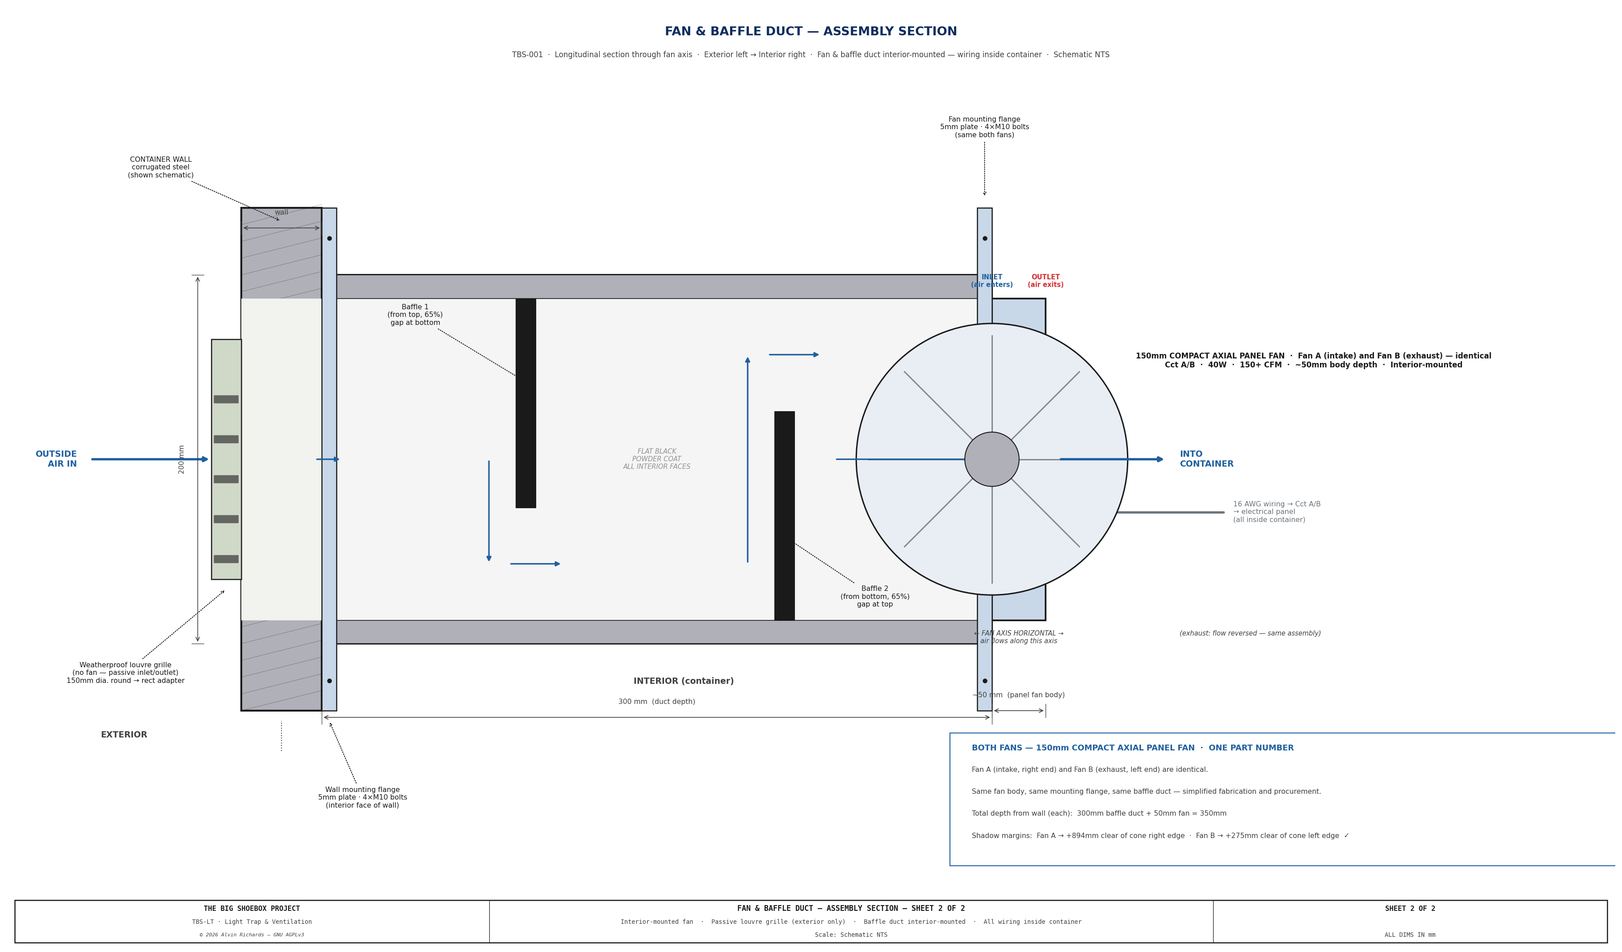
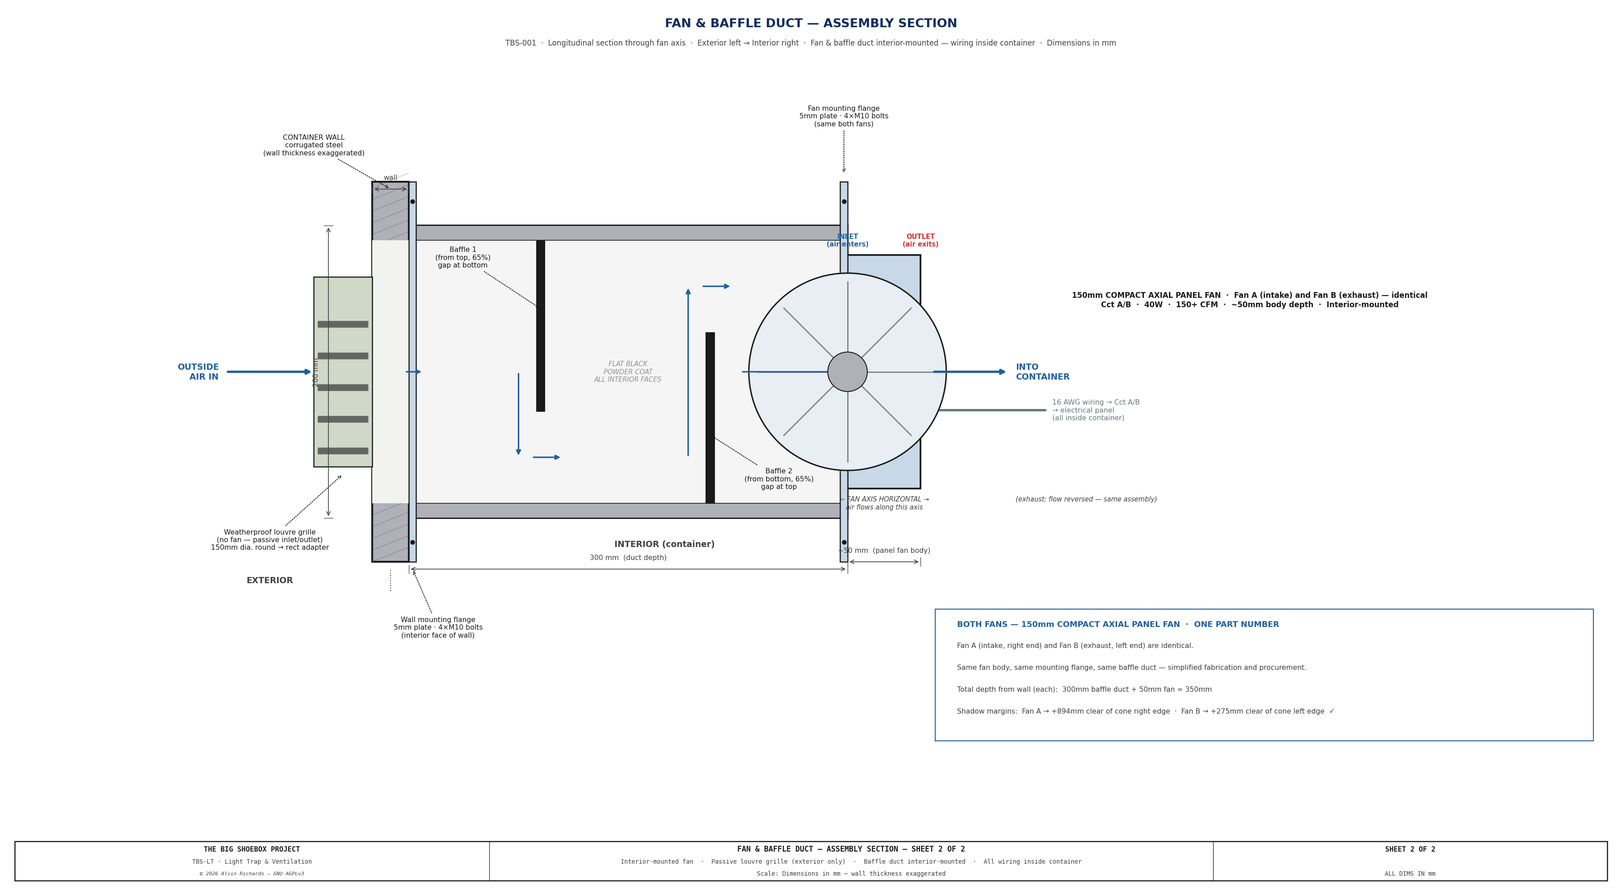
Sheet 2: convert from arbitrary drawing units to mm-based coordinates
Duct depth (300mm), duct height (200mm), fan body (50mm), fan diameter
(150mm), flanges, baffles, and grille all drawn at real mm scale.
Container wall thickness exaggerated (25mm) for visibility and annotated.
Scale note updated from 'Schematic NTS' to 'Dimensions in mm'.

diff --git a/generate_lighttrap_diagram.py b/generate_lighttrap_diagram.py
@@ -293,258 +293,225 @@ def draw_sheet1():
 
 def draw_sheet2():
     import math
-    FW, FH = 24.0, 14.0
-    fig, ax = plt.subplots(figsize=(FW, FH), dpi=150)
+
+    # ── Physical dimensions (mm) ─────────────────────────────────────────────
+    WALL_T  = 25                     # container wall (exaggerated — real ~2-3mm)
+    DD      = DUCT_DEPTH             # 300
+    DH      = DUCT_HEIGHT            # 200
+    SK      = 10                     # duct housing wall thickness
+    BF_T    = 6                      # baffle plate (exaggerated — real ~2mm)
+    PF_BD   = 50                     # panel fan body depth
+    PF_R    = FAN_DIAM / 2           # 75
+    FL_OH   = 30                     # flange overhang above/below duct
+    FL_T    = 5                      # flange plate thickness
+    GL_W    = 40                     # louvre grille depth
+    GL_H    = int(DH * 0.65)         # 130
+
+    # ── Reference coordinates (mm) ───────────────────────────────────────────
+    # X = 0 at exterior face of container wall.  Z increases upward.
+    WALL_X  = 0
+    DX      = WALL_X + WALL_T        # 25  — interior wall face / duct left
+    FX      = DX + DD                 # 325 — duct right face / fan inlet
+    DZ      = 150                     # duct bottom
+    FCZ     = DZ + DH / 2            # 250 — fan / duct center
+    int_h   = DH - 2 * SK           # 180 clear interior
+    int_d   = DD - SK                # 290 clear interior depth
+    wz0     = DZ - FL_OH             # 120 — wall / flange bottom
+    wz1     = DZ + DH + FL_OH        # 380 — wall / flange top
+
+    # ── Canvas ────────────────────────────────────────────────────────────────
+    fig, ax = plt.subplots(figsize=(24, 14), dpi=150)
     fig.patch.set_facecolor("white")
     ax.set_facecolor("white")
-    ax.set_xlim(0, FW)
-    ax.set_ylim(0, FH)
+    ax.set_xlim(-250, 850)
+    ax.set_ylim(-100, 500)
     ax.set_aspect("equal")
     ax.axis("off")
     fig.subplots_adjust(left=0, right=1, top=1, bottom=0)
 
-    ax.text(FW / 2, FH - 0.38,
+    # ── Title ─────────────────────────────────────────────────────────────────
+    cx = 300
+    ax.text(cx, 488,
             "FAN & BAFFLE DUCT — ASSEMBLY SECTION",
             ha="center", va="center", fontsize=13, fontweight="bold",
             color=TITLE_COL)
-    ax.text(FW / 2, FH - 0.72,
+    ax.text(cx, 475,
             "TBS-001  ·  Longitudinal section through fan axis  ·  Exterior left → Interior right  ·  "
-            "Fan & baffle duct interior-mounted — wiring inside container  ·  Schematic NTS",
+            "Fan & baffle duct interior-mounted — wiring inside container  ·  Dimensions in mm",
             ha="center", va="center", fontsize=8.0, color=C_DIM)
 
-    # ── Layout constants ──────────────────────────────────────────────────────
-    # Exterior zone:  x = 0  ..  WX
-    # Container wall: x = WX  ..  WX+WT
-    # Baffle duct:    x = WX+WT  ..  WX+WT+DD     (interior-mounted)
-    # Fan body:       x = WX+WT+DD  ..  WX+WT+DD+FAN_LEN  (interior)
-    # Interior zone:  x = WX+WT+DD+FAN_LEN  ..  FW
-    WX      = 3.5    # exterior face of container wall
-    WT      = 1.2    # wall thickness (schematic)
-    DD      = 10.0   # duct depth (represents 300 mm)
-    DH      = 5.5    # duct outer height (represents 200 mm)
-    SK      = 0.35   # duct housing wall thickness (10 mm steel)
-    AY      = 4.5    # bottom of duct assembly
-    BF_T    = 0.30   # baffle plate thickness (minimum visible)
-    FAN_LEN = 5.0    # fan body depth in drawing units
-    FAN_D   = 4.5    # fan body height (represents ~150 mm dia)
-    FAN_R   = FAN_D / 2
-
-    DUCT_X  = WX + WT           # interior face of wall = duct left face
-    DUCT_Y  = AY
-    FAN_X   = DUCT_X + DD       # fan mounts on right (interior) face of duct
-    FAN_CX  = FAN_X + FAN_LEN / 2
-    FAN_CY  = DUCT_Y + DH / 2
-    int_h   = DH - 2 * SK       # clear interior height
-    int_d   = DD - SK           # clear interior depth (right side has fan flange)
-    wall_y0, wall_y1 = AY - 1.0, AY + DH + 1.0
-
     # ── Container wall ────────────────────────────────────────────────────────
-    draw_rect(ax, WX, wall_y0, WT, wall_y1 - wall_y0, fc=C_STEEL, lw=2.0, zorder=4)
-    for yi in range(int(wall_y0 * 4), int(wall_y1 * 4)):
-        yy = yi / 4.0
-        ax.plot([WX, WX + WT], [yy, yy + 0.3],
+    draw_rect(ax, WALL_X, wz0, WALL_T, wz1 - wz0, fc=C_STEEL, lw=2.0, zorder=4)
+    for zi in range(wz0, wz1, 8):
+        ax.plot([WALL_X, WALL_X + WALL_T], [zi, zi + 10],
                 color=C_OUT, lw=0.4, alpha=0.4, zorder=5)
-    # Clear opening in wall for duct penetration
-    draw_rect(ax, WX, AY + SK, WT, int_h, fc="#F2F2EE", color="none", lw=0, zorder=5)
-    ann(ax, "CONTAINER WALL\ncorrugated steel\n(shown schematic)",
-        (WX + WT / 2, wall_y1 - 0.2), (WX - 1.2, wall_y1 + 0.6))
+    draw_rect(ax, WALL_X, DZ + SK, WALL_T, int_h, fc="#F2F2EE", color="none", lw=0, zorder=5)
+    ann(ax, "CONTAINER WALL\ncorrugated steel\n(wall thickness exaggerated)",
+        (WALL_X + WALL_T / 2, wz1 - 5), (WALL_X - 40, wz1 + 25))
 
-    # ── Weatherproof louvre grille (exterior face of wall) ────────────────────
-    GL_W = 0.45    # grille frame depth (protruding exterior)
-    GL_H = DH * 0.65
-    GL_Y = DUCT_Y + DH / 2 - GL_H / 2
-    # Grille frame
-    draw_rect(ax, WX - GL_W, GL_Y, GL_W, GL_H, fc="#D0D8C8", lw=1.2, zorder=6)
-    # Louvre slats (5 horizontal angled slats)
-    slat_h = 0.10
+    # ── Weatherproof louvre grille ─────────────────────────────────────────────
+    GL_Z = DZ + DH / 2 - GL_H / 2
+    draw_rect(ax, WALL_X - GL_W, GL_Z, GL_W, GL_H, fc="#D0D8C8", lw=1.2, zorder=6)
+    slat_h  = 4
     slat_gap = GL_H / 6
     for i in range(5):
-        sy = GL_Y + slat_gap * (i + 0.5)
-        # Angled slat: left edge lower than right (rain-shedding angle)
+        slat_z = GL_Z + slat_gap * (i + 0.5)
         ax.add_patch(mpatches.FancyBboxPatch(
-            (WX - GL_W + 0.05, sy - slat_h / 2), GL_W - 0.10, slat_h,
-            boxstyle="round,pad=0.01", fc=C_DIM, ec="none", zorder=7, alpha=0.75))
+            (WALL_X - GL_W + 3, slat_z - slat_h / 2), GL_W - 6, slat_h,
+            boxstyle="round,pad=0.3", fc=C_DIM, ec="none", zorder=7, alpha=0.75))
     ann(ax, "Weatherproof louvre grille\n(no fan — passive inlet/outlet)\n150mm dia. round → rect adapter",
-        (WX - GL_W / 2, GL_Y - 0.15), (WX - GL_W / 2 - 1.5, GL_Y - 1.4))
+        (WALL_X - GL_W / 2, GL_Z - 5), (WALL_X - GL_W / 2 - 50, GL_Z - 50))
 
-    # ── Baffle duct housing (interior-mounted, left face open to wall) ────────
-    draw_rect(ax, DUCT_X, DUCT_Y, DD, DH, fc="#F5F5F5", lw=2.0, zorder=3)
-    # Housing walls: top, bottom only — left (exterior) is open to wall, right (fan) has mounting flange
+    # ── Baffle duct housing ───────────────────────────────────────────────────
+    draw_rect(ax, DX, DZ, DD, DH, fc="#F5F5F5", lw=2.0, zorder=3)
     for rx, ry, rw, rh in [
-        (DUCT_X, DUCT_Y,        DD, SK),         # bottom wall
-        (DUCT_X, DUCT_Y+DH-SK,  DD, SK),         # top wall
+        (DX, DZ,        DD, SK),
+        (DX, DZ+DH-SK,  DD, SK),
     ]:
         draw_rect(ax, rx, ry, rw, rh, fc=C_STEEL, lw=0.8, zorder=4)
-    # Flat black interior
-    ax.add_patch(mpatches.Rectangle((DUCT_X, DUCT_Y + SK), DD, int_h,
+    ax.add_patch(mpatches.Rectangle((DX, DZ + SK), DD, int_h,
                  fc="#2A2A2A", ec="none", zorder=2, alpha=0.12))
 
-    # Wall mounting flange — secures duct to interior face of container wall
-    FL_W = 1.0    # flange overhang (top and bottom)
-    FL_T = 0.22   # flange plate thickness
-    draw_rect(ax, DUCT_X, DUCT_Y - FL_W, FL_T, DH + 2 * FL_W,
-              fc=C_ALUM, lw=1.2, zorder=6)
-    for by in [DUCT_Y - FL_W * 0.55, DUCT_Y + DH + FL_W * 0.55]:
-        ax.plot(DUCT_X + FL_T / 2, by, "o", color=C_OUT, ms=4, zorder=7)
+    # ── Wall mounting flange ──────────────────────────────────────────────────
+    draw_rect(ax, DX, wz0, FL_T, wz1 - wz0, fc=C_ALUM, lw=1.2, zorder=6)
+    for bz in [wz0 + FL_OH * 0.45, wz1 - FL_OH * 0.45]:
+        ax.plot(DX + FL_T / 2, bz, "o", color=C_OUT, ms=4, zorder=7)
     ann(ax, "Wall mounting flange\n5mm plate · 4×M10 bolts\n(interior face of wall)",
-        (DUCT_X + FL_T / 2, DUCT_Y - FL_W - 0.15),
-        (DUCT_X + FL_T / 2 + 0.5, DUCT_Y - FL_W - 1.3))
+        (DX + FL_T / 2, wz0 - 5), (DX + 20, wz0 - 45))
 
-    # ── Baffles inside duct ───────────────────────────────────────────────────
-    # Baffle 1: from TOP, at 30% depth — gap at BOTTOM
-    # Baffle 2: from BOTTOM, at 70% depth — gap at TOP
-    B1_X = DUCT_X + int_d * 0.30
+    # ── Baffles ───────────────────────────────────────────────────────────────
+    B1_X = DX + int_d * 0.30
     B1_H = int_h * 0.65
-    B1_Y = DUCT_Y + SK + int_h - B1_H      # top-anchored
-    draw_rect(ax, B1_X, B1_Y, BF_T, B1_H, fc=C_OUT, lw=0.5, zorder=5)
+    B1_Z = DZ + SK + int_h - B1_H
+    draw_rect(ax, B1_X, B1_Z, BF_T, B1_H, fc=C_OUT, lw=0.5, zorder=5)
 
-    B2_X = DUCT_X + int_d * 0.70
+    B2_X = DX + int_d * 0.70
     B2_H = int_h * 0.65
-    B2_Y = DUCT_Y + SK                     # bottom-anchored
-    draw_rect(ax, B2_X, B2_Y, BF_T, B2_H, fc=C_OUT, lw=0.5, zorder=5)
+    B2_Z = DZ + SK
+    draw_rect(ax, B2_X, B2_Z, BF_T, B2_H, fc=C_OUT, lw=0.5, zorder=5)
 
     ann(ax, "Baffle 1\n(from top, 65%)\ngap at bottom",
-        (B1_X + BF_T / 2, B1_Y + B1_H * 0.6),
-        (B1_X - 1.5, B1_Y + B1_H * 0.6 + 1.0))
+        (B1_X + BF_T / 2, B1_Z + B1_H * 0.6),
+        (B1_X - 50, B1_Z + B1_H * 0.6 + 35))
     ann(ax, "Baffle 2\n(from bottom, 65%)\ngap at top",
-        (B2_X + BF_T / 2, B2_Y + B2_H * 0.4),
-        (B2_X + 1.5, B2_Y + B2_H * 0.4 - 0.9))
-    ax.text(DUCT_X + DD / 2, DUCT_Y + SK + int_h * 0.5,
+        (B2_X + BF_T / 2, B2_Z + B2_H * 0.4),
+        (B2_X + 50, B2_Z + B2_H * 0.4 - 30))
+    ax.text(DX + DD / 2, DZ + SK + int_h * 0.5,
             "FLAT BLACK\nPOWDER COAT\nALL INTERIOR FACES",
             ha="center", va="center", fontsize=7.0, color="#808080",
             style="italic", alpha=0.85, zorder=9)
 
-    # ── Fan body — compact axial panel fan (both Fan A and Fan B identical) ─────
-    # Panel fan: ~50mm body depth, 150mm dia. One part number for both fans.
-    FM_T  = 0.22     # mounting flange plate thickness
-    PF_BD = 0.80     # panel fan body depth in drawing units (~50mm schematic)
-    PF_R  = FAN_R    # impeller radius = FAN_R (150mm dia)
-
-    # Mounting flange at right face of duct
-    draw_rect(ax, FAN_X - FM_T, DUCT_Y - FL_W, FM_T, DH + 2 * FL_W,
-              fc=C_ALUM, lw=1.2, zorder=6)
-    for by in [DUCT_Y - FL_W * 0.55, DUCT_Y + DH + FL_W * 0.55]:
-        ax.plot(FAN_X - FM_T / 2, by, "o", color=C_OUT, ms=4, zorder=7)
+    # ── Fan mounting flange (duct right face) ─────────────────────────────────
+    draw_rect(ax, FX - FL_T, wz0, FL_T, wz1 - wz0, fc=C_ALUM, lw=1.2, zorder=6)
+    for bz in [wz0 + FL_OH * 0.45, wz1 - FL_OH * 0.45]:
+        ax.plot(FX - FL_T / 2, bz, "o", color=C_OUT, ms=4, zorder=7)
     ann(ax, "Fan mounting flange\n5mm plate · 4×M10 bolts\n(same both fans)",
-        (FAN_X - FM_T / 2, DUCT_Y + DH + FL_W + 0.15),
-        (FAN_X - FM_T / 2, DUCT_Y + DH + FL_W + 1.2))
+        (FX - FL_T / 2, wz1 + 5), (FX - FL_T / 2, wz1 + 45))
 
-    # Panel fan body — thin rectangle (shallow depth, ~50mm) with impeller on INLET face.
-    # Impeller circle drawn on LEFT (inlet) face so orientation is unambiguous:
-    # viewing the fan from the inlet side = you see the blades face-on.
-    # Air enters LEFT face, exits RIGHT face (intake mode; reversed for exhaust).
-    draw_rect(ax, FAN_X, FAN_CY - PF_R - 0.15, PF_BD, (PF_R + 0.15) * 2,
+    # ── Panel fan body ────────────────────────────────────────────────────────
+    draw_rect(ax, FX, FCZ - PF_R - 5, PF_BD, (PF_R + 5) * 2,
               fc=C_ALUM, lw=1.8, zorder=5)
-    # Impeller disc on INLET (left) face — represents view along fan axis from inlet
-    draw_circle(ax, FAN_X, FAN_CY, PF_R * 0.90, lw=1.5, fill=True, fc="#E8EEF4", zorder=6)
-    # Blade lines (fan blades as seen from inlet)
+    draw_circle(ax, FX, FCZ, PF_R * 0.90, lw=1.5, fill=True, fc="#E8EEF4", zorder=6)
     for angle in range(0, 360, 45):
-        bx = FAN_X + PF_R * 0.82 * math.cos(math.radians(angle))
-        by = FAN_CY + PF_R * 0.82 * math.sin(math.radians(angle))
-        ax.plot([FAN_X, bx], [FAN_CY, by],
-                color=C_DIM, lw=1.4, alpha=0.60, zorder=7)
-    # Motor hub at center
-    draw_circle(ax, FAN_X, FAN_CY, PF_R * 0.18, lw=1.0, fill=True, fc=C_STEEL, zorder=8)
-    # INLET / OUTLET face labels
-    ax.text(FAN_X, FAN_CY + PF_R + 0.30, "INLET\n(air enters)",
+        bx = FX + PF_R * 0.82 * math.cos(math.radians(angle))
+        bz = FCZ + PF_R * 0.82 * math.sin(math.radians(angle))
+        ax.plot([FX, bx], [FCZ, bz], color=C_DIM, lw=1.4, alpha=0.60, zorder=7)
+    draw_circle(ax, FX, FCZ, PF_R * 0.18, lw=1.0, fill=True, fc=C_STEEL, zorder=8)
+    ax.text(FX, FCZ + PF_R + 10, "INLET\n(air enters)",
             ha="center", va="bottom", fontsize=7.0, color=C_CL, fontweight="bold", zorder=10)
-    ax.text(FAN_X + PF_BD, FAN_CY + PF_R + 0.30, "OUTLET\n(air exits)",
+    ax.text(FX + PF_BD, FCZ + PF_R + 10, "OUTLET\n(air exits)",
             ha="center", va="bottom", fontsize=7.0, color="#D32F2F", fontweight="bold", zorder=10)
-    # Axis direction note below fan
-    ax.text(FAN_X + PF_BD / 2, FAN_CY - PF_R - 0.30,
+    ax.text(FX + PF_BD / 2, FCZ - PF_R - 10,
             "← FAN AXIS HORIZONTAL →\nair flows along this axis",
             ha="center", va="top", fontsize=7.0, color=C_DIM, style="italic", zorder=10)
 
-    # Wiring run from fan into container interior
-    WR_X = FAN_X + PF_BD + 0.15
-    ax.plot([WR_X, WR_X + 2.5], [FAN_CY - PF_R * 0.35, FAN_CY - PF_R * 0.35],
+    # ── Wiring run ────────────────────────────────────────────────────────────
+    wr_x = FX + PF_BD + 5
+    wr_z = FCZ - PF_R * 0.35
+    ax.plot([wr_x, wr_x + 80], [wr_z, wr_z],
             color=C_PIPE, lw=2.5, solid_capstyle="round", zorder=5)
-    ax.text(WR_X + 2.65, FAN_CY - PF_R * 0.35,
+    ax.text(wr_x + 85, wr_z,
             "16 AWG wiring → Cct A/B\n→ electrical panel\n(all inside container)",
             ha="left", va="center", fontsize=7.5, color=C_PIPE, zorder=10)
 
-    ax.text(FAN_X + PF_BD * 6, FAN_CY + PF_R - 0.65, #FAN_CY - PF_R - 0.55,
-            "150mm COMPACT AXIAL PANEL FAN  ·  Fan A (intake) and Fan B (exhaust) — identical\n"
+    ax.text(600, FCZ + PF_R - 20,
+            f"{FAN_DIAM}mm COMPACT AXIAL PANEL FAN  ·  Fan A (intake) and Fan B (exhaust) — identical\n"
             "Cct A/B  ·  40W  ·  150+ CFM  ·  ~50mm body depth  ·  Interior-mounted",
             ha="center", va="top", fontsize=8.0, fontweight="bold", color=C_OUT, zorder=10)
 
-    # ── Airflow arrows (intake mode shown — exhaust is identical, reversed) ───
-    mid_y = FAN_CY
-    gap1_h = int_h * 0.35
-    gap1_y = DUCT_Y + SK
-    gap2_h = int_h * 0.35
-    gap2_y = DUCT_Y + SK + int_h - gap2_h
-    y_gap1 = gap1_y + gap1_h / 2
-    y_gap2 = gap2_y + gap2_h / 2
+    # ── Airflow arrows ────────────────────────────────────────────────────────
+    mid_z = FCZ
+    gap1_z = DZ + SK
+    gap2_z = DZ + SK + int_h - int_h * 0.35
+    z_gap1 = gap1_z + int_h * 0.35 / 2
+    z_gap2 = gap2_z + int_h * 0.35 / 2
     pc, plw = C_CL, 1.6
 
-    # Exterior: outside → grille
-    ax.annotate("", xy=(WX - GL_W, mid_y), xytext=(WX - GL_W - 1.8, mid_y),
+    ax.annotate("", xy=(WALL_X - GL_W, mid_z), xytext=(WALL_X - GL_W - 60, mid_z),
                 arrowprops=dict(arrowstyle="-|>", color=pc, lw=2.5), zorder=8)
-    ax.text(WX - GL_W - 2.0, mid_y, "OUTSIDE\nAIR IN",
+    ax.text(WALL_X - GL_W - 65, mid_z, "OUTSIDE\nAIR IN",
             ha="right", va="center", fontsize=9.0, color=pc, fontweight="bold", zorder=10)
-    # Through wall opening into duct
-    ax.annotate("", xy=(DUCT_X + 0.3, mid_y), xytext=(WX + WT - 0.1, mid_y),
+    ax.annotate("", xy=(DX + 10, mid_z), xytext=(WALL_X + WALL_T - 3, mid_z),
                 arrowprops=dict(arrowstyle="-|>", color=pc, lw=plw), zorder=7)
     # S-path through baffles
-    ax.annotate("", xy=(B1_X - 0.4, y_gap1), xytext=(B1_X - 0.4, mid_y),
+    ax.annotate("", xy=(B1_X - 12, z_gap1), xytext=(B1_X - 12, mid_z),
                 arrowprops=dict(arrowstyle="-|>", color=pc, lw=plw), zorder=7)
-    ax.annotate("", xy=(B1_X + BF_T + 0.4, y_gap1), xytext=(B1_X - 0.1, y_gap1),
+    ax.annotate("", xy=(B1_X + BF_T + 12, z_gap1), xytext=(B1_X - 3, z_gap1),
                 arrowprops=dict(arrowstyle="-|>", color=pc, lw=plw), zorder=7)
-    ax.annotate("", xy=(B2_X - 0.4, y_gap2), xytext=(B2_X - 0.4, y_gap1),
+    ax.annotate("", xy=(B2_X - 12, z_gap2), xytext=(B2_X - 12, z_gap1),
                 arrowprops=dict(arrowstyle="-|>", color=pc, lw=plw), zorder=7)
-    ax.annotate("", xy=(B2_X + BF_T + 0.4, y_gap2), xytext=(B2_X - 0.1, y_gap2),
+    ax.annotate("", xy=(B2_X + BF_T + 12, z_gap2), xytext=(B2_X - 3, z_gap2),
                 arrowprops=dict(arrowstyle="-|>", color=pc, lw=plw), zorder=7)
-    # Exit baffle → fan inlet
-    ax.annotate("", xy=(FAN_X - 0.1, mid_y), xytext=(B2_X + BF_T + 0.6, mid_y),
+    ax.annotate("", xy=(FX - 3, mid_z), xytext=(B2_X + BF_T + 18, mid_z),
                 arrowprops=dict(arrowstyle="-|>", color=pc, lw=plw), zorder=7)
-    # Fan → interior container
-    ax.annotate("", xy=(FAN_X + PF_BD + 1.8, mid_y),
-                xytext=(FAN_X + PF_BD + 0.2, mid_y),
+    ax.annotate("", xy=(FX + PF_BD + 60, mid_z),
+                xytext=(FX + PF_BD + 8, mid_z),
                 arrowprops=dict(arrowstyle="-|>", color=pc, lw=2.5), zorder=8)
-    ax.text(FAN_X + PF_BD + 2.0, mid_y, "INTO\nCONTAINER",
+    ax.text(FX + PF_BD + 65, mid_z, "INTO\nCONTAINER",
             ha="left", va="center", fontsize=9.0, color=pc, fontweight="bold", zorder=10)
-    ax.text(FAN_X + PF_BD + 2.0, mid_y - FAN_R - 0.3,
+    ax.text(FX + PF_BD + 65, mid_z - PF_R - 10,
             "(exhaust: flow reversed — same assembly)",
             ha="left", va="top", fontsize=7.0, color=C_DIM, style="italic", zorder=10)
 
     # ── Zone labels ───────────────────────────────────────────────────────────
-    ax.text(WX / 2, wall_y0 - 0.3, "EXTERIOR",
+    ax.text(-70, wz0 - 10, "EXTERIOR",
             ha="center", va="top", fontsize=9.0, color=C_DIM, fontweight="bold", zorder=10)
-    ax.text(DUCT_X + (FAN_X + PF_BD - DUCT_X) / 2, wall_y0 + 0.5,
+    ax.text(DX + (FX + PF_BD - DX) / 2, wz0 + 15,
             "INTERIOR (container)",
             ha="center", va="top", fontsize=9.0, color=C_DIM, fontweight="bold", zorder=10)
-    ax.plot([WX + WT / 2, WX + WT / 2], [wall_y0 - 0.6, wall_y0 - 0.15],
+    ax.plot([WALL_X + WALL_T / 2, WALL_X + WALL_T / 2], [wz0 - 20, wz0 - 5],
             color=C_DIM, lw=1.0, ls=":")
 
     # ── Dimension lines ───────────────────────────────────────────────────────
-    draw_dim_h(ax, DUCT_X, DUCT_X + DD, DUCT_Y - 1.1, f"{DUCT_DEPTH} mm  (duct depth)",
-               offset=0.33, fs=7.5, zorder=10, color=C_DIM)
-    draw_dim_v(ax, DUCT_X - 1.85, DUCT_Y, DUCT_Y + DH, f"{DUCT_HEIGHT} mm",
-               offset=0.3, fs=7.5, zorder=10, color=C_DIM)
-    draw_dim_h(ax, WX, WX + WT, DUCT_Y + DH + 0.7, "wall",
-               offset=0.33, fs=7.5, zorder=10, color=C_DIM)
-    ax.plot([WX, WX], [DUCT_Y + DH, DUCT_Y + DH + 0.85], color=C_DIM, lw=0.5, ls=":")
-    ax.plot([WX + WT, WX + WT], [DUCT_Y + DH, DUCT_Y + DH + 0.85], color=C_DIM, lw=0.5, ls=":")
-    draw_dim_h(ax, FAN_X, FAN_X + PF_BD, DUCT_Y - 1.0, "~50 mm  (panel fan body)",
-               offset=0.33, fs=7.5, zorder=10, color=C_DIM)
+    draw_dim_h(ax, DX, DX + DD, DZ - 35, f"{DUCT_DEPTH} mm  (duct depth)",
+               offset=10, fs=7.5, zorder=10, color=C_DIM)
+    draw_dim_v(ax, DX - 55, DZ, DZ + DH, f"{DUCT_HEIGHT} mm",
+               offset=10, fs=7.5, zorder=10, color=C_DIM)
+    draw_dim_h(ax, WALL_X, WALL_X + WALL_T, DZ + DH + 25, "wall",
+               offset=10, fs=7.5, zorder=10, color=C_DIM)
+    ax.plot([WALL_X, WALL_X], [DZ + DH, DZ + DH + 30],
+            color=C_DIM, lw=0.5, ls=":")
+    ax.plot([WALL_X + WALL_T, WALL_X + WALL_T], [DZ + DH, DZ + DH + 30],
+            color=C_DIM, lw=0.5, ls=":")
+    draw_dim_h(ax, FX, FX + PF_BD, DZ - 30, "~50 mm  (panel fan body)",
+               offset=10, fs=7.5, zorder=10, color=C_DIM)
 
-    # ── Shadow margin / procurement note ─────────────────────────────────────
+    # ── Notes ─────────────────────────────────────────────────────────────────
     draw_notes(ax, [
         "BOTH FANS — 150mm COMPACT AXIAL PANEL FAN  ·  ONE PART NUMBER",
         "Fan A (intake, right end) and Fan B (exhaust, left end) are identical.",
         "Same fan body, same mounting flange, same baffle duct — simplified fabrication and procurement.",
-        "Total depth from wall (each):  300mm baffle duct + 50mm fan = 350mm",
+        f"Total depth from wall (each):  {DUCT_DEPTH}mm baffle duct + {PF_BD}mm fan = {DUCT_DEPTH + PF_BD}mm",
         "Shadow margins:  Fan A → +894mm clear of cone right edge  ·  Fan B → +275mm clear of cone left edge  ✓",
-    ], x=FW - 9.5 - 0.1, y_top=3.0, spacing=0.33,
-       fs=7.5, title_fs=8.5, title_color=C_CL, width=9.5,
+    ], x=400, y_top=80, spacing=15,
+       fs=7.5, title_fs=8.5, title_color=C_CL, width=420,
        border_color=C_CL, border_lw=1.0)
 
     title_block(ax, "SHEET 2 OF 2",
                 drawing_title="FAN & BAFFLE DUCT — ASSEMBLY SECTION",
                 subtitle="Interior-mounted fan  ·  Passive louvre grille (exterior only)  ·  "
                 "Baffle duct interior-mounted  ·  All wiring inside container",
-                scale_note="Schematic NTS",
+                scale_note="Dimensions in mm — wall thickness exaggerated",
                 doc_id="TBS-LT · Light Trap & Ventilation")
 
     plt.savefig("diagrams/lighttrap-sheet2.png", dpi=150, bbox_inches="tight",
